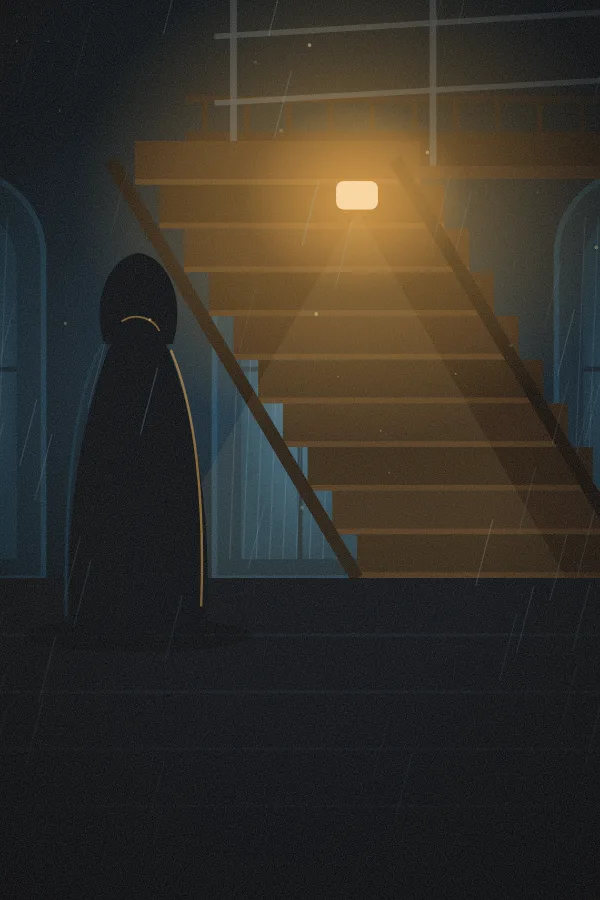
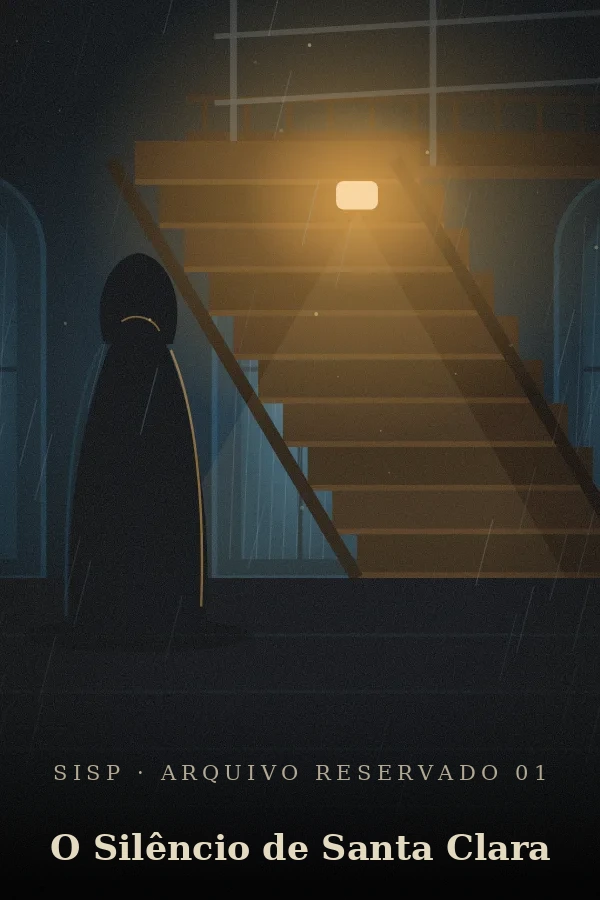
Capas de O Silêncio de Santa Clara e A Voz da Madrugada com título; capas deslizam suavemente no carrossel do capítulo (#145)
Claude-Session: https://claude.ai/code/session_015tfXN2LHrSJNSLNMARGbDc

diff --git a/css/16-trilha.css b/css/16-trilha.css
@@ -18,11 +18,7 @@
 #trc::before{content:"";position:absolute;inset:0;pointer-events:none;background:repeating-linear-gradient(105deg,transparent 0 46px,#ffffff08 46px 74px);-webkit-mask-image:linear-gradient(180deg,#000,#0000 60%);mask-image:linear-gradient(180deg,#000,#0000 60%)}
 .trhd{position:relative;display:flex;align-items:center;gap:10px;padding:calc(14px + env(safe-area-inset-top,0)) 14px 0}.trhd small{color:#d9a441;font:700 10px var(--ty);letter-spacing:.16em}.trhd h2{font:600 22px Georgia,serif;color:#f1ead8;margin:2px 0 0}
 .trbk{width:38px;height:38px;border-radius:50%;border:1px solid #ffffff2a;background:#0008;color:#e8e2d4;display:grid;place-items:center;cursor:pointer;flex:none}.trbk svg{width:20px;height:20px;fill:none;stroke:currentColor;stroke-width:2.2;stroke-linecap:round;stroke-linejoin:round}
-#trc .tcf{position:relative;height:290px;margin-top:6px;touch-action:pan-y}
-#trc .tcv{position:absolute;top:50%;left:50%;border:0;padding:0;border-radius:9px;overflow:hidden;background:#111;box-shadow:0 20px 40px #000c;cursor:pointer;transition:transform .5s,opacity .5s}#trc .tcv img{display:block;width:100%;height:100%;object-fit:cover;pointer-events:none}
-#trc .tcv.c{width:176px;height:264px;margin:-132px 0 0 -88px;z-index:3;cursor:default;box-shadow:0 0 0 2px #d9a44199,0 0 50px #d9a44133,0 22px 40px #000}#trc .tcv.c.pop{animation:trpop .45s cubic-bezier(.3,.8,.3,1)}@keyframes trpop{from{transform:scale(.9);opacity:.5}to{transform:none;opacity:1}}
-#trc .tcv.l{width:120px;height:180px;margin:-90px 0 0 -212px;z-index:2;filter:grayscale(.9) brightness(.5);transform:perspective(600px) rotateY(24deg)}#trc .tcv.r{width:120px;height:180px;margin:-90px 0 0 92px;z-index:2;filter:grayscale(1) brightness(.32);transform:perspective(600px) rotateY(-24deg)}
-#trc .tcv.c.gold{box-shadow:0 0 0 3px #f0c75e,0 0 60px #f0c75e66,0 22px 40px #000}#trc .tcv.c.lk img{filter:grayscale(.85) brightness(.55)}
+#trc .tcf{position:relative;height:290px;margin-top:6px;touch-action:pan-y;perspective:900px}
 #trc .tcvs{position:absolute;inset:0;display:flex;flex-direction:column;align-items:center;justify-content:center;gap:6px;background:linear-gradient(160deg,#2a2210,#0d0d10);border:2px dashed #b8923f88;border-radius:9px}#trc .tcvs i{font-style:normal;color:#f0c75e;font-size:36px}#trc .tcvs small{color:#f0c75e;font:800 10px var(--ty);letter-spacing:.16em}
 #trc .tin{position:relative;padding:0 18px;text-align:center;min-height:118px}#trc .tin small{display:block;font:700 9.5px var(--ty);letter-spacing:.14em}#trc .tin b{display:block;font:600 20px Georgia,serif;margin:5px 0 2px;color:#f1ead8}#trc .tin span{display:block;color:#9a9486;font-size:12px}
 .trplay{margin-top:9px;background:#d9a441;color:#1a1200;border:0;border-radius:11px;padding:11px 36px;font:800 14px var(--ty);cursor:pointer}.trplay.lk,.trplay:disabled{background:#2a2a30;color:#8a8578;cursor:default}
@@ -40,3 +36,15 @@
 .trimc{max-width:360px;background:#14141a;border:1px solid #ffffff22;border-radius:18px;padding:20px;box-shadow:0 24px 60px #000c;color:#e8e2d4}.trimc small{color:#d9a441;font:700 10px var(--ty);letter-spacing:.16em}.trimc h3{font:600 22px Georgia,serif;margin:4px 0 10px}.trimc p{font:400 13.5px/1.55 var(--ty);color:#c9c3b3;margin:0 0 10px}.trimc b{color:#f0c75e}.trimc .trplay{width:100%;margin-top:6px}
 .hbt .tl3 .tile{padding:0 clamp(3px,1.4vw,8px);letter-spacing:.18em}
 .tma{width:min(350px,94%);padding:14px 12px 12px;pointer-events:none}.tma .trh{margin:0 0 8px}.tma .trinfo{display:grid;place-items:center}.tma #trsvg{aspect-ratio:435/330}.tma .trgo{margin:8px 0 0}.tma .trgo.nx{margin-top:6px}
+
+/* carrossel de capas: as capas deslizam entre as posições (data-p = distância da capa selecionada) */
+#trc .tcv{position:absolute;top:50%;left:50%;width:176px;height:264px;margin:-132px 0 0 -88px;border:0;padding:0;border-radius:9px;overflow:hidden;background:#111;cursor:pointer;box-shadow:0 20px 40px #000c;transition:transform .6s cubic-bezier(.25,.85,.3,1),opacity .5s,filter .6s,box-shadow .6s;will-change:transform,opacity;-webkit-tap-highlight-color:transparent}
+#trc .tcv img{display:block;width:100%;height:100%;object-fit:cover;pointer-events:none}
+#trc .tcv[data-p="0"]{transform:none;z-index:3;cursor:default;box-shadow:0 0 0 2px #d9a44199,0 0 50px #d9a44133,0 22px 40px #000}
+#trc .tcv.gold[data-p="0"]{box-shadow:0 0 0 3px #f0c75e,0 0 60px #f0c75e66,0 22px 40px #000}
+#trc .tcv[data-p="-1"]{transform:perspective(600px) translateX(-152px) rotateY(24deg) scale(.68);z-index:2;filter:grayscale(.9) brightness(.5)}
+#trc .tcv[data-p="1"]{transform:perspective(600px) translateX(152px) rotateY(-24deg) scale(.68);z-index:2;filter:grayscale(1) brightness(.32)}
+#trc .tcv[data-p="-2"],#trc .tcv[data-p="-3"]{transform:perspective(600px) translateX(-230px) rotateY(30deg) scale(.5);opacity:0;pointer-events:none;z-index:1;filter:grayscale(1) brightness(.3)}
+#trc .tcv[data-p="2"],#trc .tcv[data-p="3"]{transform:perspective(600px) translateX(230px) rotateY(-30deg) scale(.5);opacity:0;pointer-events:none;z-index:1;filter:grayscale(1) brightness(.3)}
+#trc .tin.fx{animation:trfx .45s ease both}@keyframes trfx{from{opacity:0;transform:translateY(8px)}to{opacity:1;transform:none}}
+@media(prefers-reduced-motion:reduce){#trc .tcv{transition:none}#trc .tin.fx{animation:none}}

diff --git a/js/47-trilha.js b/js/47-trilha.js
@@ -85,7 +85,7 @@ function curveHTML(ns,sel){const n=ns.length,P=curvePts(n);const f=t=>[n>1?34+t*
  const[tx,ty]=P[sel],sx=ns[sel];
  h+=`<g id=trth style="transform:translate(${tx}px,${ty-34}px)"><circle r=19 fill="#0b0b0e" stroke="#fff" stroke-width=2.5 /><clipPath id=trthc><circle r=17 /></clipPath>${sx.soon?`<text y=6 text-anchor=middle font-size=17 fill="#f0c75e">★</text>`:`<image href="${capa(sx.id)}" x=-17 y=-17 width=34 height=34 clip-path="url(#trthc)" preserveAspectRatio="xMidYMid slice"/>`}<path d="M-5,18 L0,26 L5,18z" fill="#fff"/></g></svg>`;
  return h}
-function covHTML(ns,sel){const mk=(j,c)=>{const x=ns[j];if(!x)return '';const g=x.k==='e';return `<button class="tcv ${c} ${g?'gold':''} ${!x.open&&!x.soon?'lk':''}" ${c==='c'?'tabindex=-1 aria-label="Capa selecionada"':`onclick="trSel(${j})" aria-label="Ver ${esc(x.t)}"`}>${x.soon?'<span class=tcvs><i>★</i><small>EM BREVE</small></span>':`<img src="${capa(x.id)}" alt="" draggable=false>`}</button>`};return mk(sel-1,'l')+mk(sel+1,'r')+mk(sel,'c')}
+function covHTML(ns,sel){return ns.map((x,j)=>{const d=j-sel,p=Math.max(-3,Math.min(3,d));return `<button class="tcv ${x.k==='e'?'gold':''}" data-i="${j}" data-p="${p}" onclick="trSel(${j})" aria-label="${esc(x.t)}">${x.soon?'<span class=tcvs><i>★</i><small>EM BREVE</small></span>':`<img src="${capa(x.id)}" alt="" draggable=false>`}</button>`}).join('')}
 function infHTML(x){const g=x.k==='e'?' ★ PREMIUM':'';const act=x.soon?`<button class=trplay disabled>Em breve</button>`:x.open?`<button class=trplay onclick="trStart(${x.i})">${x.done?'↻ Rever':x.p?'▶ Continuar':'▶ Jogar'}</button>`:`<button class="trplay lk" onclick="trStart(${x.i})">🔒 Bloqueado</button>`;
  return `<small style="color:${COL[x.k]}">${x.lab}${g} · ${stTxt(x).toUpperCase().replace('✓ ','')}</small><b>${esc(x.t)}</b><span>${esc(x.sub||'')}</span>${act}`}
 function chHTML(){const c=cities()[TRS.ci],ns=pad(TRS.ci),sel=Math.max(0,Math.min(TRS.sel,ns.length-1)),prem=ns.find(x=>x.k==='e'&&!x.soon);
@@ -98,8 +98,11 @@ window.trCity=(ci,sel)=>{const CS=cities();if(!CS[ci]||!CS[ci].open)return;TRS.c
  let o=document.getElementById('trc');if(!o){o=document.createElement('div');o.id='trc';o.setAttribute('role','dialog');o.setAttribute('aria-label','Capítulo da trilha');(document.getElementById('app')||document.body).appendChild(o)}
  o.innerHTML=chHTML();o.scrollTop=0;wire(o);try{AU&&AU.sfx&&AU.sfx('tap')}catch(e){}};
 function wire(o){const cf=o.querySelector('#trcf');if(!cf||cf._w)return;cf._w=1;let x0=null;cf.addEventListener('pointerdown',e=>{x0=e.clientX});cf.addEventListener('pointerup',e=>{if(x0==null)return;const dx=e.clientX-x0;x0=null;if(Math.abs(dx)>40)trSel(TRS.sel+(dx<0?1:-1))});cf.addEventListener('pointercancel',()=>x0=null)}
-window.trSel=i=>{const ns=pad(TRS.ci);if(i<0||i>=ns.length)return;TRS.sel=i;const o=document.getElementById('trc');if(!o)return;const cf=o.querySelector('#trcf');cf.innerHTML=covHTML(ns,i);const c=cf.querySelector('.tcv.c');if(c)c.classList.add('pop');
- o.querySelector('#trinf').innerHTML=infHTML(ns[i]);o.querySelector('#trcw').innerHTML=curveHTML(ns,i);
+window.trSel=i=>{const ns=pad(TRS.ci);if(i<0||i>=ns.length||i===TRS.sel)return;TRS.sel=i;const o=document.getElementById('trc');if(!o)return;const cf=o.querySelector('#trcf');
+ /* os pôsteres deslizam de um lugar para o outro (a posição vem do data-p), em vez de serem redesenhados */
+ const els=cf.querySelectorAll('.tcv');if(els.length!==ns.length)cf.innerHTML=covHTML(ns,i);else els.forEach((e,j)=>{e.dataset.p=Math.max(-3,Math.min(3,j-i))});
+ const inf=o.querySelector('#trinf');inf.innerHTML=infHTML(ns[i]);inf.classList.remove('fx');void inf.offsetWidth;inf.classList.add('fx');
+ o.querySelector('#trcw').innerHTML=curveHTML(ns,i);
  o.querySelectorAll('#trcz button').forEach((b,j)=>b.classList.toggle('cur',j===i))};
 window.trClose=()=>{const o=document.getElementById('trc');if(o)o.remove()};
 /* o capítulo some quando a tela do Arquivo/Trilha deixa de estar aberta (ex.: ao começar um caso) */

diff --git a/js/02-casos-lista.js b/js/02-casos-lista.js
@@ -1,4 +1,4 @@
-window.IMV=id=>({e1:'',e2:'?v=2',e3:'?v=3',e4:'?v=3',c6:'?v=4',c0:'?v=2',t1:'?v=2',c5:'?v=2'}[id]||'');
+window.IMV=id=>({e1:'?v=2',e2:'?v=2',e3:'?v=3',e4:'?v=4',c6:'?v=4',c0:'?v=2',t1:'?v=2',c5:'?v=2'}[id]||'');
 /* primeiro nome sem deixar título sozinho (Seu, Dona, Irmã, Frei, Comandante...) */
 function nm1(n){const p=String(n).split(' ');if(/^(Dra?\.?|Sra?\.?)$/.test(p[0])&&p[1])return p[1];if(/^(Seu|Sua|Dona|Ir[mM][ãa]o?|Frei|Madre|Padre|Dom|Comandante|Cmte\.?|Capit[ãa]o|Doutor|Doutora|Madame|Mestre|Palha[cç]o)$/.test(p[0])&&p[1])return p[0]+' '+p[1];return p[0]}
 const CASES=[mkC0(),Object.assign(mkC1(),{id:'c1',key:'sisp104b',n:'A Última Xícara',num:'Inquérito nº 104/2026',place:'Mansão Sterling',blurb:'Um bioquímico morre num escritório trancado por dentro, numa noite de tempestade. Três suspeitos e um chá frio.',dif:2,t0:1392,dead:1800,thr:4,top:9,start:'office',LOCT:{copa:'q_c1',lab:'q_e1',vault:'q_e2'},LN:{copa:'Copa e portaria',lab:'Laboratório',vault:'Cofre oculto'},
